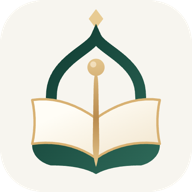
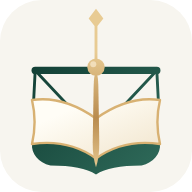
Brand mark: replace dome arch with abstract balance beam; hide Latin MIZAN in Arabic wordmark
Claude-Session: https://claude.ai/code/session_01PqsDapGFhyLmrniLW9GdpP

diff --git a/src/components/design-system/MizanLogo.tsx b/src/components/design-system/MizanLogo.tsx
@@ -90,9 +90,9 @@ export function useBrandName(): { ar: string; en: string; logoUrl?: string } {
  *
  * The previous MizanMark drew an unrelated pair of scale pans, so the product and the
  * approved identity disagreed on every screen. This is the approved mark rebuilt as
- * geometry: an ogee mihrab arch, an open muṣḥaf, the gold qalam rising through the spine,
+ * geometry: a balance beam, an open muṣḥaf, the gold qalam rising through the spine,
  * and the diamond finial. It carries the double reading the name asks for — the qalam is
- * also the beam of a balance, the two pages its pans.
+ * the axis of a balance, the two pages its pans. No dome, mihrab or crescent (brand rule).
  *
  * Parts are individually classed (mz-arch, mz-page…) so motion lives in CSS
  * (see "MIZAN brand motion" in src/index.css) and this file stays pure geometry.
@@ -101,10 +101,12 @@ export function useBrandName(): { ar: string; en: string; logoUrl?: string } {
 export type MizanTone = 'brand' | 'inverse' | 'mono';
 
 const PATHS = {
-  finial: 'M60 2.5 64.6 8.6 60 14.7 55.4 8.6Z',
-  // Ogee arch, drawn as one stroke so the apex keeps a true mitred point.
-  arch:
-    'M39.5 90C34.5 81.5 30.8 70.5 32.2 54 34 35 56.4 28 60 20c3.6 8 26 15 27.8 34 1.4 16.5-2.3 27.5-7.3 36',
+  // Finial diamond with its stem: the upper end of the balance axis.
+  finial: 'M60 2.5 64.6 8.6 60.9 13.2V34h-1.8V13.2L55.4 8.6Z',
+  // Balance beam (was a dome-like arch; the brand has no mosque or crescent motif).
+  arch: 'M22 41H98',
+  // Fine suspension lines from the beam ends down to the two pages (the pans).
+  chains: 'M22 41 21 60.5M22 41 44 64.5M98 41 99 60.5M98 41 76 64.5',
   pageRight: 'M60 71c13.5-9.5 27-13.5 40-11.5-2 8.5-2 19 0 27.5-13.5-2-28 .5-40 9Z',
   pageLeft: 'M60 71c-13.5-9.5-27-13.5-40-11.5 2 8.5 2 19 0 27.5 13.5-2 28 .5 40 9Z',
   // Leaf creases: the second page under the top one. Fades out on its own at icon sizes.
@@ -181,10 +183,15 @@ export const MizanMark: React.FC<MarkProps> = ({
           d={PATHS.arch}
           pathLength={100}
           stroke={mono ? 'currentColor' : `url(#mzArch${uid})`}
-          strokeWidth={6.8}
+          strokeWidth={4.6}
           strokeLinecap="round"
-          strokeLinejoin="miter"
-          strokeMiterlimit={7}
+        />
+        <path
+          className="mz-chains"
+          d={PATHS.chains}
+          stroke={mono ? 'currentColor' : `url(#mzArch${uid})`}
+          strokeWidth={1.8}
+          strokeLinecap="round"
         />
 
         <g className="mz-book">
@@ -246,13 +253,8 @@ export const MizanWordmark: React.FC<WordmarkProps> = ({
       <span className="mizan-wordmark-name" dir={ar ? 'rtl' : 'ltr'}>
         {ar ? brand.ar : brand.en}
       </span>
-      {/* data-no-localize keeps ArabicInterfaceGuard from rewriting the Latin
-          half of the lockup while the app is in Arabic. */}
-      {ar && (
-        <span className="mizan-wordmark-rule" aria-hidden="true" data-no-localize="true">
-          <i /><b>{brand.en}</b><i />
-        </span>
-      )}
+      {/* In Arabic the Latin «MIZAN» line is intentionally not drawn (brand rule:
+          the Arabic name is the only word in Arabic mode). */}
       {tagline && <span className="mizan-wordmark-tagline">{tagline}</span>}
     </span>
   );

diff --git a/src/index.css b/src/index.css
@@ -415,6 +415,7 @@ html[lang="ar"] .mizan-wordmark-name{ font-family:var(--font-arabic); }
 /* Animated mark: parts assemble in the order the brand is read —
    arch, book, qalam, orb, finial. */
 .mizan-mark.is-animated .mz-arch   { stroke-dasharray:100; animation:mzDraw .92s var(--ease-brand) .05s both }
+.mizan-mark.is-animated .mz-chains { animation:mzLoaderIn .4s ease .55s both }
 .mizan-mark.is-animated .mz-page-l,
 .mizan-mark.is-animated .mz-cover-l{ transform-origin:60px 96px; --mz-fold:9deg; animation:mzUnfold .6s var(--ease-brand) .5s both }
 .mizan-mark.is-animated .mz-page-r,
